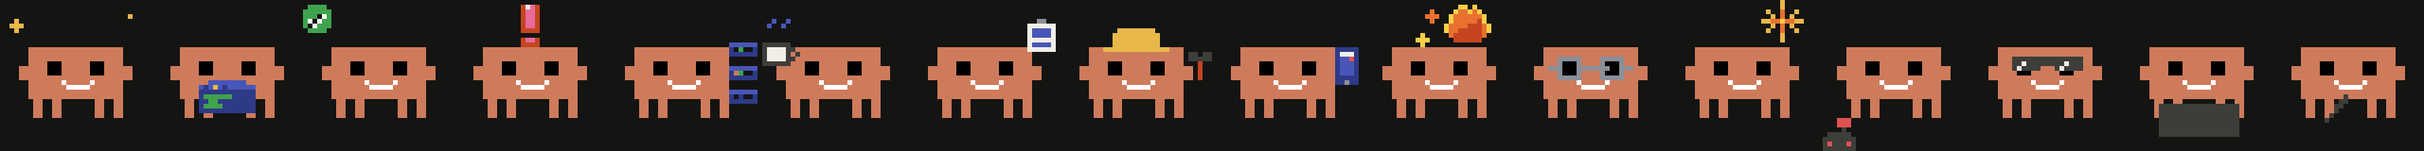
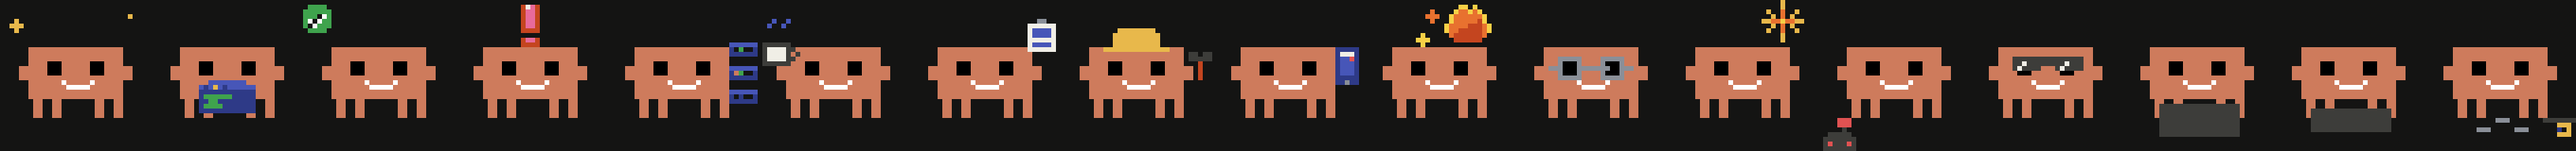
Three skate beats: the kickflip, the varial, and a roll-away
The operator kept the kickflip, cut the wrapping one, and asked for the
FIRST draft back plus an idea of their own — the board rolling off with
nobody doing anything.

THE WRAPPING ONE IS GONE. It was correct — pure pitch really is an
impossible — and correct did not save it. "The rotation just looks
awkward" is the only verdict that matters about a thing whose whole job
is to look good.

THE VARIAL IS THE FIRST DRAFT, RESTORED, with the two things the review
found wrong with it fixed. Both were bugs, not taste, which is why they
could be fixed without losing what the operator liked about it:

  - It narrowed to NOTHING. A board seen straight down its own length is
    as wide as the deck — five points here — not invisible. Zero is a
    door closing.
  - The wheels swapped sides and stayed there, which means he landed on
    the underside. That is not a landing, it is landing primo. They orbit
    through a whole turn now and come back underneath.

Half a turn of yaw against a whole turn of roll is exactly a varial
kickflip's budget, and it reads clearly apart from the plain kickflip
next door — whose deck never narrows by even one point.

THE ROLL-AWAY IS NOT A TRICK, and that is why it belongs. Two tricks
compete for the same attention; a trick and a cruise do not. He rides,
the board accelerates out from under him and leaves the frame, and he
stands there watching it go.

The speed is carried by STREAKS, not by the wheels, and that was measured
[…]

diff --git a/Sources/ClaudePet/View/CrabRig.swift b/Sources/ClaudePet/View/CrabRig.swift
@@ -83,11 +83,12 @@ public struct CrabPose: Sendable, Equatable {
         case star
         // Appended for the same reason, never inserted: the arcade stick, the
         // shades off the stickers, and the board he kickflips.
-        case joystick, shades, skateboard, skateboardWrap
+        case joystick, shades, skateboard, skateboardVarial, skateboardRoll
 
         var isWorn: Bool {
             switch self {
-            case .hardHat, .phone, .fire, .glasses, .shades, .skateboard, .skateboardWrap: true
+            case .hardHat, .phone, .fire, .glasses, .shades, .skateboard, .skateboardVarial,
+             .skateboardRoll: true
             default: false
             }
         }
@@ -1072,38 +1073,82 @@ public enum CrabRig {
                 }
             }
 
-        case .skateboardWrap:
-            // A board doing an IMPOSSIBLE: wrapped end over end, in the plane
-            // of the screen. Pure pitch, which is the one rotation that legally
-            // draws a diagonal deck and stands it on end — and the one trick in
-            // the whole flip family that is built from it.
+        case .skateboardVarial:
+            // A VARIAL KICKFLIP: the board turns over AND swings round, both at
+            // once. This is the one the operator liked from the very first
+            // draft, restored — with the two things the review found wrong with
+            // it fixed, because both were bugs rather than style.
             //
-            // A real impossible wraps around the BACK FOOT, so its pivot sits
-            // at the tail and travels with that foot. This one pivots five
-            // points tail-ward of centre rather than at the tail itself, and
-            // that is a frame compromise rather than a claim: a true tail pivot
-            // swings the nose past x=0 at the halfway point, and a board that
-            // leaves the sprite reads as broken rather than as wrapped.
+            // FIRST: it used to narrow to NOTHING. A board seen straight down
+            // its own length is not invisible, it is as wide as the deck — five
+            // points here. Narrowing to zero is a door closing, not a board.
             //
-            // Swept as an ellipse, not a circle. A deck turning toward you
-            // foreshortens, and a true circle would stand seventeen points of
-            // board upright — taller than the crab.
-            let wrap = pose.propPhase.truncatingRemainder(dividingBy: 1)
-            let angle = wrap * 2 * .pi
-            let pivotX = 11 + dx, pivotY = 25 + dy
-            for step in 0...13 {
-                let u = Double(step) / 13
-                b.pixel(pivotX + Int((u * 13 * cos(angle)).rounded()),
-                        pivotY + Int((u * 5 * sin(angle)).rounded()), .slate)
+            // SECOND: the wheels used to swap sides and stay there, which meant
+            // he landed on the underside. That is not a trick, it is a bail
+            // (landing "primo"). They now orbit through a whole turn and come
+            // back underneath, which is what landing it means.
+            //
+            // The yaw does a half turn while the roll does a whole one, which
+            // is exactly a varial kickflip's budget — and it reads distinctly
+            // from the plain kickflip next door, whose deck never narrows at
+            // all.
+            let spin = pose.propPhase.truncatingRemainder(dividingBy: 1)
+            let yaw = spin * .pi                              // 180 across the trick
+            let roll = spin * 2 * .pi                         // a whole turn
+            let cx = 16 + dx, deckY = 25 + dy
+            // Eight points of half-length flat on, two and a half when you are
+            // looking straight down the nose-tail axis.
+            let half = max(2, Int((8 * abs(cos(yaw)) + 2.5 * abs(sin(yaw))).rounded()))
+            let thick = max(1, Int((5 * abs(sin(roll))).rounded()))
+            b.rect(cx - half, deckY - thick / 2, half * 2 + 1, thick, .slate)
+
+            let orbit = Int((3 * cos(roll)).rounded())
+            if sin(roll) >= 0 || abs(orbit) > thick / 2 {
+                let reach = max(1, half - 3)
+                for hub in [cx - reach - 1, cx + reach - 1] {
+                    b.rect(hub, deckY + orbit - 1, 3, 1, .yellow)
+                    b.pixel(hub, deckY + orbit, .yellow)
+                    b.pixel(hub + 1, deckY + orbit, .screenDark)
+                    b.pixel(hub + 2, deckY + orbit, .yellow)
+                    b.rect(hub, deckY + orbit + 1, 3, 1, .yellow)
+                }
             }
-            if abs(cos(angle)) > 0.78 {
-                let under = cos(angle) > 0 ? 1 : -1
-                for hub in [pivotX - 1, pivotX + 8] {
-                    b.rect(hub, pivotY + under, 3, 1, .yellow)
-                    b.pixel(hub, pivotY + under * 2, .yellow)
-                    b.pixel(hub + 1, pivotY + under * 2, .screenDark)
-                    b.pixel(hub + 2, pivotY + under * 2, .yellow)
-                    b.rect(hub, pivotY + under * 3, 3, 1, .yellow)
+
+        case .skateboardRoll:
+            // NO TRICK. He rides, the board rolls out from under him, and goes.
+            //
+            // The operator's own idea, and the reason it works next to two
+            // tricks is that it is not a third one: two tricks compete for the
+            // same attention, a trick and a cruise do not.
+            //
+            // The speed is carried by STREAKS, not by the wheels. A wheel here
+            // is three points across, so the only spin cue available is the
+            // bearing mark walking round the hub — about nine points of travel
+            // in total, against a board crossing twenty-six. Left to itself the
+            // eye reads the sliding and never notices the spinning, so the
+            // streaks do the work and the bearing is the grace note.
+            let u = pose.propPhase.truncatingRemainder(dividingBy: 1)
+            let drift = Int((u * u * 26).rounded())       // accelerating away
+            let deckY = 25 + dy
+            let cx = 16 + dx + drift
+            b.rect(cx - 8, deckY, 17, 1, .slate)
+
+            // The bearing orbiting its own hub, four positions to the turn.
+            let tick = Int(u * 34) % 4
+            let mark = [(0, -1), (1, 0), (0, 1), (-1, 0)][tick]
+            for hub in [cx - 5, cx + 4] {
+                b.rect(hub, deckY + 1, 3, 1, .yellow)
+                b.pixel(hub, deckY + 2, .yellow)
+                b.pixel(hub + 2, deckY + 2, .yellow)
+                b.rect(hub, deckY + 3, 3, 1, .yellow)
+                b.pixel(hub + 1 + mark.0, deckY + 2 + mark.1, .screenDark)
+            }
+
+            // Trailing streaks, staggered so they read as motion rather than
+            // as a second board.
+            if drift > 3 {
+                for k in 1...3 where cx - 10 - k * 4 > 0 {
+                    b.rect(cx - 10 - k * 4, deckY + (k % 2 == 0 ? 0 : 2), 3, 1, .steel)
                 }
             }
 

diff --git a/Tests/ClaudePetTests/MotionTests.swift b/Tests/ClaudePetTests/MotionTests.swift
@@ -282,12 +282,12 @@ struct MotionContinuityTests {
             // A hair before the landing the flourish must still be a kickflip,
             // and it must be at the very end of its run.
             let (kind, progress) = try! #require(CrabAnimator.flourish(at: landing - 0.02))
-            #expect(CrabAnimator.Flourish.skateTricks.contains(kind),
+            #expect(CrabAnimator.Flourish.skateBeats.contains(kind),
                     "predicted a landing during \(kind.rawValue), which is not a skate trick")
             #expect(progress > 0.98, "predicted the landing at \(progress) through it")
             // …and it is over by then.
             let after = CrabAnimator.flourish(at: landing + 0.02)?.0
-            #expect(after.map { !CrabAnimator.Flourish.skateTricks.contains($0) } ?? true,
+            #expect(after.map { !CrabAnimator.Flourish.skateBeats.contains($0) } ?? true,
                     "the trick was still running after its own landing")
             t = landing + 0.1
         }
@@ -352,23 +352,89 @@ struct MotionContinuityTests {
         #expect(thinnest == 1, "the deck was never flat on; thinnest was \(thinnest)")
     }
 
-    /// **And an impossible is the one that DOES go diagonal.**
-    ///
-    /// Pure pitch — the board wrapping end over end in the plane of the screen —
-    /// is the one rotation that legally draws a slanted deck, and the impossible
-    /// is the trick built from it. Asserted so the two tricks cannot quietly
-    /// converge into the same animation with two names.
-    @Test("An impossible wraps end over end, and a kickflip does not")
-    func impossibleIsTheDiagonalOne() {
-        let duration = CrabAnimator.Flourish.impossible.duration
-        var sawDiagonal = false
-        for step in stride(from: 0.05, through: duration - 0.05, by: 0.04) {
-            let deck = board(.impossible, at: step)
-            // A staircase: several rows of board, and no row holding more than
-            // a step or two of it.
-            if deck.height >= 4, deck.run <= 4 { sawDiagonal = true }
+    /// Where the board and its wheels sit in a frame.
+    private func rig(_ kind: CrabAnimator.Flourish, at t: Double)
+    -> (deckRow: Int, wheelRow: Int, deckLeft: Int, run: Int) {
+        let buffer = CrabRig.render(CrabAnimator.flourishPose(kind, at: t))
+        var longest = 0, deckRow = -1, deckLeft = -1
+        var wheelSum = 0, wheelCount = 0
+        for y in 0..<PixelBuffer.side {
+            var run = 0, start = 0
+            for x in 0..<PixelBuffer.side {
+                if buffer[x, y] == .yellow { wheelSum += y; wheelCount += 1 }
+                if buffer[x, y] == .slate {
+                    if run == 0 { start = x }
+                    run += 1
+                    if run > longest { longest = run; deckRow = y; deckLeft = start }
+                } else {
+                    run = 0
+                }
+            }
         }
-        #expect(sawDiagonal, "the impossible never tilted — it is a kickflip wearing another name")
+        return (deckRow, wheelCount > 0 ? wheelSum / wheelCount : -1, deckLeft, longest)
+    }
+
+    /// **The varial is the one whose deck narrows — and it lands the right way
+    /// up.**
+    ///
+    /// This is the operator's favourite of the three, restored from the first
+    /// draft with the two things the review found wrong with it fixed. Both
+    /// were bugs rather than taste, and both are pinned here.
+    ///
+    /// It must narrow, or it is just the kickflip again. It must NOT narrow to
+    /// nothing, because a board seen down its own length is as wide as the
+    /// deck, not invisible. And the wheels must come back underneath by the
+    /// end: the first draft swapped them and left them there, which is not a
+    /// landing, it is landing primo.
+    @Test("The varial narrows without vanishing, and lands wheels-down")
+    func varialNarrowsAndLandsUpright() {
+        let duration = CrabAnimator.Flourish.varialFlip.duration
+        var narrowest = 99, widest = 0
+        for step in stride(from: 0.5, through: duration * 0.78, by: 0.03) {
+            let r = rig(.varialFlip, at: step)
+            guard r.run > 0 else { continue }
+            narrowest = min(narrowest, r.run)
+            widest = max(widest, r.run)
+        }
+        #expect(widest == 17, "the varial never opened out flat; widest was \(widest)")
+        #expect(narrowest < 12, "the varial never narrowed — that is the kickflip, not a varial")
+        #expect(narrowest >= 5,
+                "the deck shrank to \(narrowest): a board seen down its length is as wide as the deck, not a closing door")
+
+        // Landed, not primo: wheels below the deck at the end.
+        let landed = rig(.varialFlip, at: duration - 0.05)
+        #expect(landed.wheelRow > landed.deckRow,
+                "he landed on the underside — wheels at row \(landed.wheelRow), deck at \(landed.deckRow)")
+    }
+
+    /// **The roll-away is the one where nothing is a trick and the board goes.**
+    ///
+    /// Its whole identity is travel: the deck has to actually leave. Pinned
+    /// because a board that drifts a few points and stops reads as a glitch
+    /// rather than as a departure.
+    @Test("The roll-away sends the board away")
+    func rollAwayDepartsWithTheBoard() {
+        let duration = CrabAnimator.Flourish.rollAway.duration
+        let early = rig(.rollAway, at: 0.05)
+        #expect(early.run == 17, "no board under him at the start of a roll-away")
+
+        let mid = rig(.rollAway, at: duration * 0.55)
+        #expect(mid.deckLeft > early.deckLeft + 4,
+                "the board only travelled \(mid.deckLeft - early.deckLeft) points by halfway — a twitch, not a departure")
+
+        // GONE by the end, not merely further along. That is the beat: it
+        // leaves. A board still sitting in frame when the flourish stops would
+        // pop out of existence on the last tick.
+        let late = rig(.rollAway, at: duration - 0.05)
+        #expect(late.run == 0, "the board was still on screen at the end, \(late.run) points of it")
+
+        // And while it IS on screen it stays a board — the deck never tilts,
+        // never narrows, never thickens. No trick means no trick.
+        for step in stride(from: 0.05, through: duration - 0.05, by: 0.05) {
+            let r = rig(.rollAway, at: step)
+            guard r.run > 0, r.deckLeft + 17 <= PixelBuffer.side else { continue }
+            #expect(r.run == 17, "the board changed shape mid-cruise at \(String(format: "%.2f", step))s")
+        }
     }
 
     /// **His eyes are level, in every mood, at every instant.**

diff --git a/Sources/ClaudePet/View/CrabView.swift b/Sources/ClaudePet/View/CrabView.swift
@@ -84,15 +84,21 @@ public enum CrabAnimator {
     /// The little unprompted things he does while waiting. Scheduled rather
     /// than random per frame, so each one plays through instead of stuttering.
     enum Flourish: String, CaseIterable {
-        case jump, wave, wiggle, stretch, lookAround, scuttle, kickflip, impossible
+        case jump, wave, wiggle, stretch, lookAround, scuttle, kickflip, varialFlip,
+             rollAway
 
         /// The two skate tricks, so the line he shouts after one does not have
         /// to name them individually.
-        static let skateTricks: Set<Flourish> = [.kickflip, .impossible]
+        /// Everything he does on a board. Two are tricks and one is a cruise,
+        /// which is why this is not called `skateTricks` — he shouts after all
+        /// three, and "Do a Kickflip!" lands funnier over a roll-away than it
+        /// does over an actual kickflip.
+        static let skateBeats: Set<Flourish> = [.kickflip, .varialFlip, .rollAway]
 
         var duration: Double {
             switch self {
-            case .kickflip, .impossible: 2.8
+            case .kickflip, .varialFlip: 2.8
+            case .rollAway: 2.6
             case .jump: 0.9
             case .wave: 1.8
             case .wiggle: 1.0
@@ -158,7 +164,7 @@ public enum CrabAnimator {
         for cycle in first...(first + Int(horizon / flourishPeriod)) {
             let start = Double(cycle) * flourishPeriod
             guard let (kind, _) = flourish(at: start + 0.01),
-                  Flourish.skateTricks.contains(kind)
+                  Flourish.skateBeats.contains(kind)
             else { continue }
             let landed = start + kind.duration
             if landed > t { return landed }
@@ -1069,7 +1075,21 @@ public enum CrabAnimator {
     /// as a frequency.
     private static func apply(_ kind: Flourish, progress: Double, t: Double, to pose: inout CrabPose) {
         switch kind {
-        case .kickflip, .impossible:
+        case .rollAway:
+            // He does not jump. The board leaves and he watches it go, which
+            // is the whole joke — every other skate beat is him DOING
+            // something, and this one is him standing there while something
+            // happens to him.
+            pose.prop = .skateboardRoll
+            pose.propVisibility = 1
+            pose.propPhase = progress
+            if progress > 0.35 {
+                pose.gazeX = 1                        // eyes follow it out
+                pose.lean = 1
+            }
+            if progress > 0.55 { pose.mouth = .open }
+
+        case .kickflip, .varialFlip:
             // Roll, pop, one full turn of the board, land it.
             //
             // Two tricks, one shape: the airtime and the pop are identical and
@@ -1085,7 +1105,7 @@ public enum CrabAnimator {
             // `propPhase` carries the turn, 0 to 1 across the airtime, and one
             // whole turn lands deck-down — which is what a kickflip IS, and why
             // the phase must reach exactly 1 rather than stopping short.
-            pose.prop = kind == .kickflip ? .skateboard : .skateboardWrap
+            pose.prop = kind == .kickflip ? .skateboard : .skateboardVarial
             pose.propVisibility = 1
             // Set on EVERY branch, never left to the caller. The idle pose he
             // is layered onto carries its own `propPhase` for its own prop, and

diff --git a/Tests/ClaudePetTests/PersonalityTests.swift b/Tests/ClaudePetTests/PersonalityTests.swift
@@ -118,7 +118,7 @@ struct PropInventoryTests {
     func propCountIsPinned() {
         // `.none` is a case but not a prop; the strip draws the rest.
         let drawn = CrabPose.Prop.allCases.filter { $0 != .none }
-        #expect(drawn.count == 16,
+        #expect(drawn.count == 17,
                 "the prop count moved — docs/media/props.png needs re-rendering")
         #expect(!CrabPose.Prop.allCases.contains { $0.rawValue == "zzz" },
                 "the sleeping z's were removed; the enum should not carry them")
